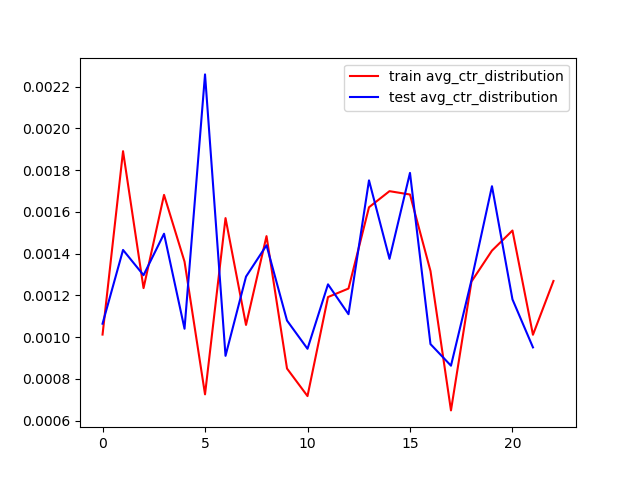
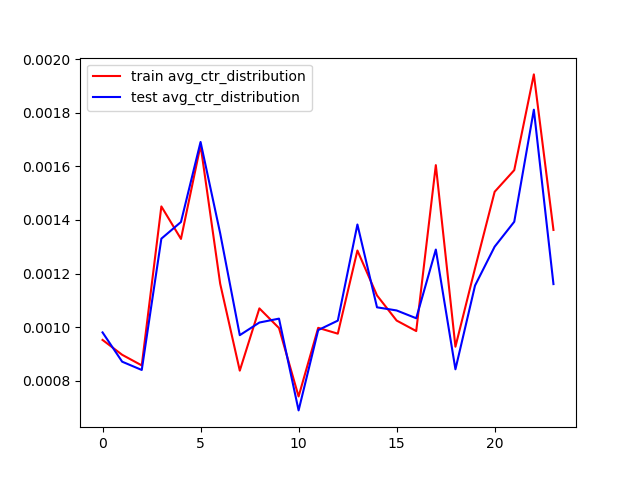
修改过滤pctr threshold为原阈值的一半

diff --git a/src/data_display/data_statistic.py b/src/data_display/data_statistic.py
@@ -18,7 +18,7 @@ print('训练集ctr大于平均ctr的数量', np.sum(train_ctr > train_avg_ctr[h
 print('训练集ctr大于平均ctr的曝光花费', np.sum(train_data[train_ctr > train_avg_ctr[hour_index]].iloc[:, config['data_marketprice_index']]))
 with_clk_index = train_data.iloc[:, config['data_clk_index']].isin([1])
 with_clk_hour_index = train_data[with_clk_index].iloc[:, config['data_hour_index']]
-print('训练集ctr大于点击/曝光ctr的数量', np.sum(train_ctr[with_clk_index.values] > train_avg_ctr[with_clk_hour_index]))
+print('训练集ctr大于点击/曝光ctr的数量', np.sum(train_ctr[with_clk_index.values] > 0.5*train_avg_ctr[with_clk_hour_index]))
 train_ctr_mprice_data = {'ctr': train_ctr[with_clk_index.values],
                         'marketprice': train_data[with_clk_index].iloc[:, config['data_marketprice_index']].values,
                         'hour_index': train_data[with_clk_index].iloc[:, config['data_hour_index']].values}
@@ -42,7 +42,7 @@ for i in range(0, 24):
 hour_data_statics = {'clk_nums': clk_nums, 'ctr_avgs': ctr_avgs, 'bid_avgs': bid_avgs, 'hour_arrays': hour_arrays}
 hour_data_statics_df = pd.DataFrame(data=hour_data_statics)
 hour_data_statics_df.to_csv('../../data/data_statics/train_hour_data_statics.csv', index=None)
-print('训练集平均有点击出价均值', np.sum(train_data[train_data.iloc[:, config['data_clk_index']].isin([1])].iloc[:, config['data_marketprice_index']])/347) # 平均有点击出价均值为90.51219512195122
+print('训练集平均有点击出价均值', np.sum(train_data[train_data.iloc[:, config['data_clk_index']].isin([1])].iloc[:, config['data_marketprice_index']])/328) # 平均有点击出价均值为90.51219512195122
 
 test_data = pd.read_csv("../../data/fm/test_fm.csv", header=None)
 test_data.iloc[:, config['data_hour_index']] = test_data.iloc[:, config['data_hour_index']].astype(int)
@@ -83,9 +83,9 @@ test_hour_data_statics_df = pd.DataFrame(data=test_hour_data_statics)
 hour_index = test_data[with_clk_index].iloc[:, config['data_hour_index']]
 print('测试集具有点击的数据大于各时段平均ctr（为各数据ctr的平均值）的数量', np.sum(test_ctr[with_clk_index.values] > test_hour_data_statics_df.iloc[hour_index, 1]))
 print('测试集具有点击的数据大于0.0001的数量', np.sum(test_ctr[with_clk_index.values] > 0.0005))
-print('测试集具有点击的数据大于时段点击/曝光ctr的数量', np.sum(test_ctr[with_clk_index.values] > test_avg_ctr[hour_index]))
+print('测试集具有点击的数据大于时段点击/曝光ctr的数量', np.sum(test_ctr[with_clk_index.values] > 0.5*test_avg_ctr[hour_index]))
 test_hour_data_statics_df.to_csv('../../data/data_statics/test_hour_data_statics.csv', index=None)
-print('测试集平均有点击出价均值', np.sum(test_data[test_data.iloc[:, config['data_clk_index']].isin([1])].iloc[:, config['data_marketprice_index']])/351) # 均有点击出价均值为92.11797752808988
+print('测试集平均有点击出价均值', np.sum(test_data[test_data.iloc[:, config['data_clk_index']].isin([1])].iloc[:, config['data_marketprice_index']])/307) # 均有点击出价均值为89.34201954397395
 
 x_axis = np.arange(0,24)
 train_y_aixs_1 = hour_data_statics_df.iloc[:, 1].values

diff --git a/src/DQN_rtb/run_this_template.py b/src/DQN_rtb/run_this_template.py
@@ -83,7 +83,7 @@ def run_env(budget, auc_num, budget_para):
             auc_remain_scale = state[1] / auc_num
             # 当后面预算不够但是拍卖数量还多时，应当出价降低，反之可以适当提升
             auc_budget_remain_rate = budget_remain_scale / auc_remain_scale
-            if current_data_ctr >= train_avg_ctr[int(hour_index)]:
+            if current_data_ctr >= 0.5*train_avg_ctr[int(hour_index)]: # 乘以1/2
 
                 bid_nums += 1
 
@@ -303,7 +303,7 @@ def test_env(budget, auc_num, budget_para):
         auc_remain_scale = state[1] / auc_num
         # 当后面预算不够但是拍卖数量还多时，应当出价降低，反之可以适当提升
         auc_budget_remain_rate = budget_remain_scale / auc_remain_scale
-        if current_data_ctr >= test_avg_ctr[int(hour_index)]:
+        if current_data_ctr >= 0.5*test_avg_ctr[int(hour_index)]:
             bid_nums += 1
 
             # RL代理根据状态选择动作
